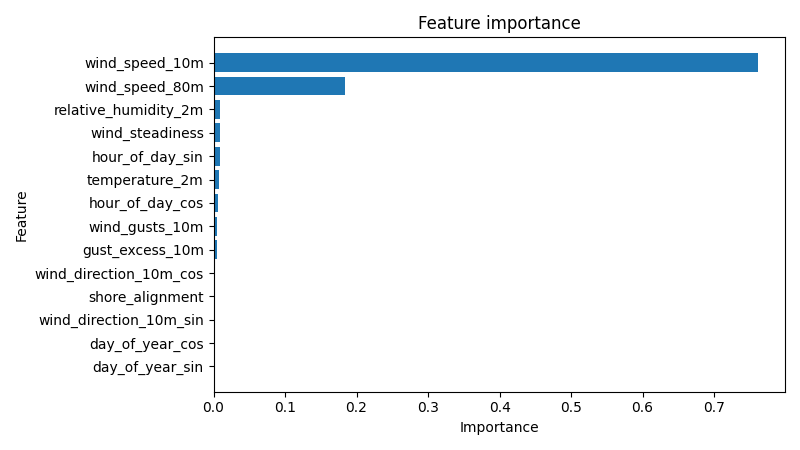
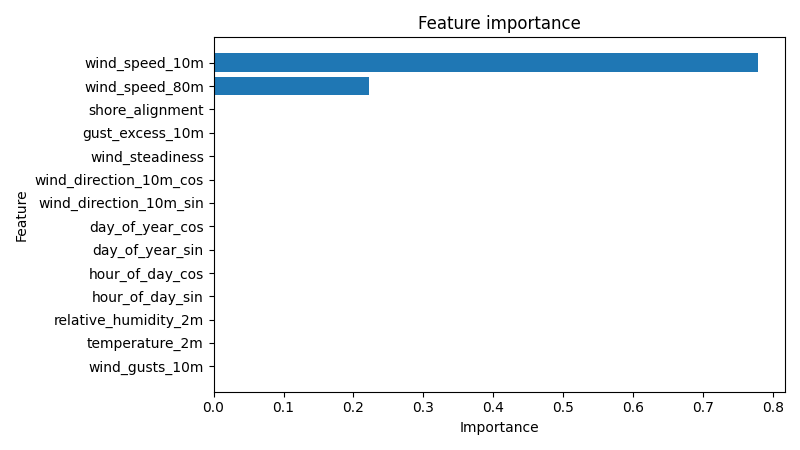
chore(dvc): refresh dvc.lock and training reports to match shipped code
The lock predated the seeded training entry points and the stage command change, so dvc repro no longer matched the committed state. The remote was also missing the locked data object, which broke dvc pull. Re-run both stages, push the regenerated cache, and note in the model card that the July snapshot is a near-constant-label window.

diff --git a/docs/site/system/model-card.md b/docs/site/system/model-card.md
@@ -45,7 +45,7 @@ Each training run holds out 20% of the data (`test_size: 0.2`, fixed random seed
 
 All estimator and split randomness flows from `model.random_state` in `config.yaml`: it seeds the forest and boosting estimators, `train_test_split`, and numpy's global RNG at both training entry points. No code uses Python's `random` module, `PYTHONHASHSEED=0` is pinned at the process boundaries (the DVC stage command and the Airflow image), and provenance hashing is SHA-256, so it is independent of hash randomization. Two runs with the same seed on the same curated data produce identical training metrics.
 
-For current numbers, check the run behind the `champion` alias in MLflow rather than any single snapshot. Because labels are rule-based, a training window with little wind variation produces near-constant labels and trivially good metrics; judging model quality requires looking at the data window a run was trained on.
+For current numbers, check the run behind the `champion` alias in MLflow rather than any single snapshot. Because labels are rule-based, a training window with little wind variation produces near-constant labels and trivially good metrics; judging model quality requires looking at the data window a run was trained on. The committed July 2026 snapshot is such a window: 1007 of its 1008 curated rows share one label, so the snapshot's error metrics collapse to zero.
 
 Beyond held-out metrics, a registered `candidate` is shadow-scored against the `champion` on live inference batches, so its divergence from the served model is visible before any promotion.
 